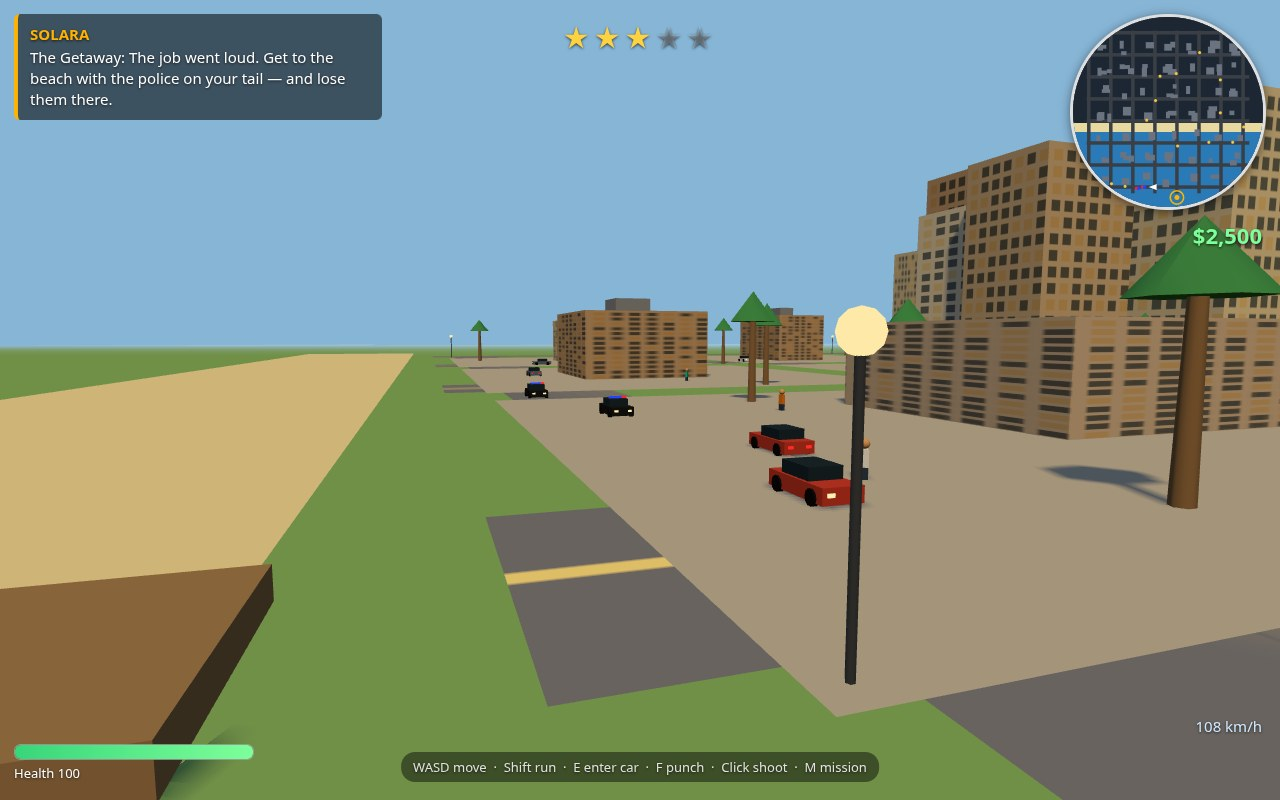
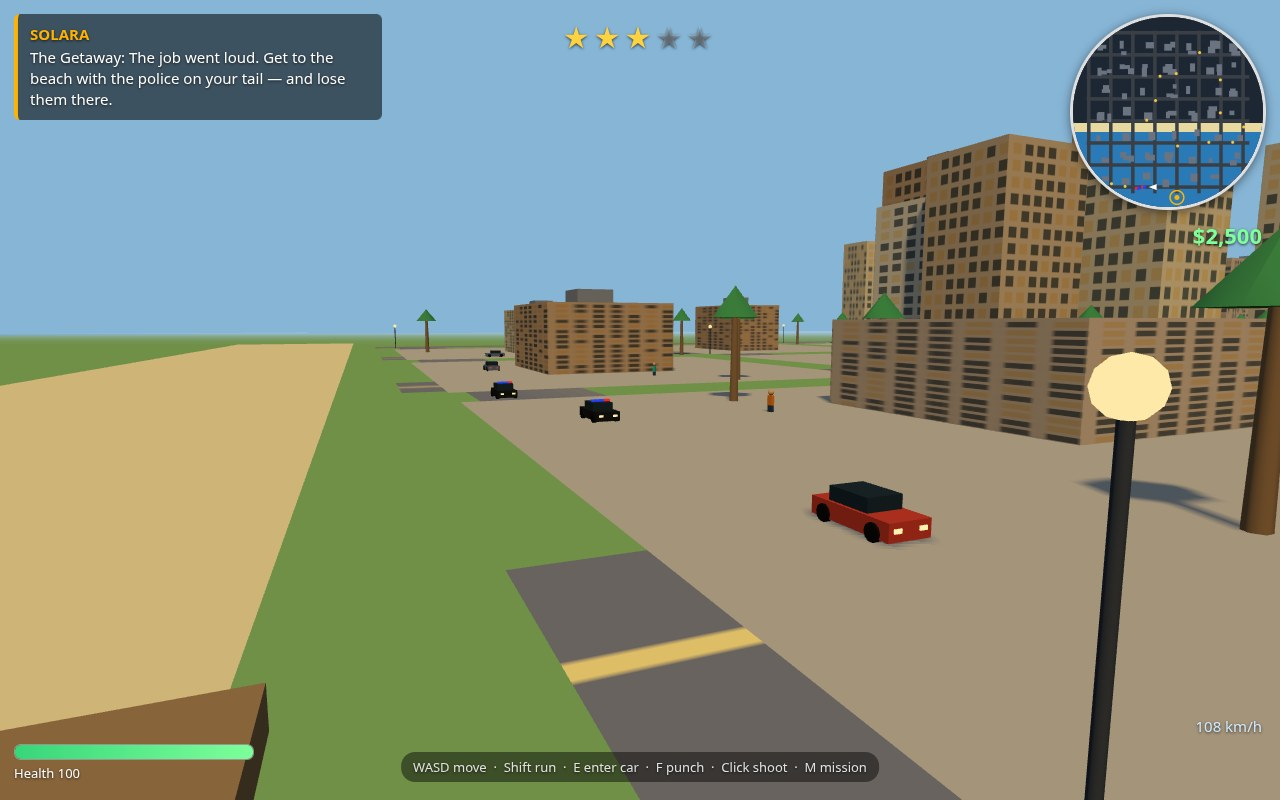
Shot polish: hide parked cars and nearby traffic/peds, freeze camera, road staging

Changed region(s): [[0.0, 0.0938, 1.0, 1.0], [0.0, 0.6875, 0.2188, 1.0]]

diff --git a/game/src/shots.js b/game/src/shots.js
@@ -43,6 +43,23 @@ export function applyShot(game, shot) {
   const places = world.places;
   hud.show();
   game.state = 'playing';
+  // Parked cars stay out of the shot: only the staged cars are shown.
+  for (const c of game.parkedCars) c.mesh.visible = false;
+  // Hide any traffic car that would sit right in front of the shot camera.
+  const hideNearCamera = (list, radius) => {
+    for (const c of list) {
+      const p = c.pos ?? { x: c.x, z: c.z };
+      if (Math.hypot(p.x - camera.position.x, p.z - camera.position.z) < radius) {
+        (c.mesh ?? c.group).visible = false;
+      }
+    }
+  };
+  // Hide pedestrians standing on the shot's focus (a car or the player).
+  const hidePedsNear = (x, z, radius) => {
+    for (const p of game.pedestrians.list) {
+      if (Math.hypot(p.x - x, p.z - z) < radius) p.mesh.visible = false;
+    }
+  };
   // No pointer lock in a shot; the camera is placed by hand and frozen.
   const setCamera = (x, y, z, tx, ty, tz) => {
     camera.position.set(x, y, z);
@@ -73,18 +90,21 @@ export function applyShot(game, shot) {
     missions.index = 1;
     game.cash = 400;
     // Side-on: the player's car centre-right, the police behind it to the left.
-    setCamera(-35, 7, midRoadZ + 16, -80, 2, midRoadZ);
+    setCamera(-40, 8, midRoadZ + 20, -80, 2, midRoadZ - 2);
+    hideNearCamera(traffic.cars, 30);
   } else if (shot === '3-mission') {
-    // On foot at a downtown intersection, a traffic car passing, the city ahead.
-    player.place(0, midRoadZ - 2, Math.PI);
+    // On foot mid-street (no intersection, so no streetlight in the way),
+    // a traffic car coming down the road toward the player, the city ahead.
+    player.place(0, midRoadZ, Math.PI);
     missions.index = 3;
     wanted.clear();
     game.cash = 1200;
     player.ammo = 9;
-    const t = new Car(game.scene, 26, midRoadZ, Math.PI / 2, 0x2e6db4);
+    const t = new Car(game.scene, 2.2, midRoadZ - 26, 0, 0x2e6db4);
     t.speed = 12;
     traffic.cars.push(t);
-    setCamera(0 + 13, 6.5, midRoadZ + 15, 0, 2, midRoadZ - 22);
+    setCamera(10, 6, midRoadZ + 14, 0, 1.5, midRoadZ - 6);
+    hideNearCamera(traffic.cars, 30);
     hud.toast('The Delivery — north gate, 90 seconds', 10);
   } else if (shot === '4-chase') {
     // A three-star chase east along the beach road, police closing in.
@@ -96,11 +116,12 @@ export function applyShot(game, shot) {
     const p2 = new Car(game.scene, -102, beachRoadZ + 4, Math.PI / 2, 0x111111, true);
     p2.speed = 30;
     police.cars.push(p2);
-    police.spawnOfficerNear(-30, beachRoadZ + 8);
     missions.index = 4;
     game.cash = 2500;
     // Side-on: the player's car centre-right, the police closing in to the left.
-    setCamera(-25, 7, beachRoadZ + 16, -75, 2, beachRoadZ);
+    setCamera(-30, 8, beachRoadZ + 18, -78, 2, beachRoadZ - 2);
+    hideNearCamera(traffic.cars, 30);
+    hidePedsNear(-50, beachRoadZ, 12);
   }
   // Refresh the HUD once so the shot shows the staged state.
   game.refreshHud();

diff --git a/game/src/main.js b/game/src/main.js
@@ -54,7 +54,8 @@ const parkedCars = [];
 // The game object the screenshot stager and the loop share.
 const game = {
   state: 'menu',
-  scene, camera, world, player, traffic, police, wanted, missions, hud, sound,
+  scene, camera, world, player, traffic, pedestrians, police, wanted, missions, hud, sound,
+  parkedCars,
   cash: 0,
   inCar: false,
   playerCar: null,
